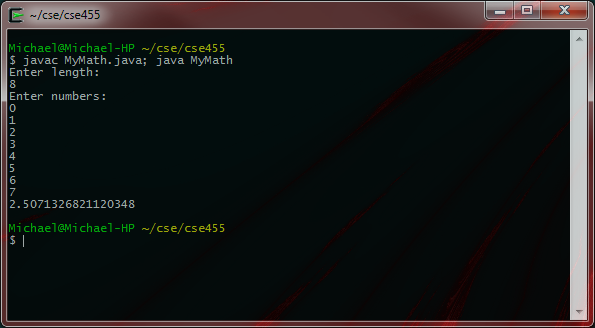
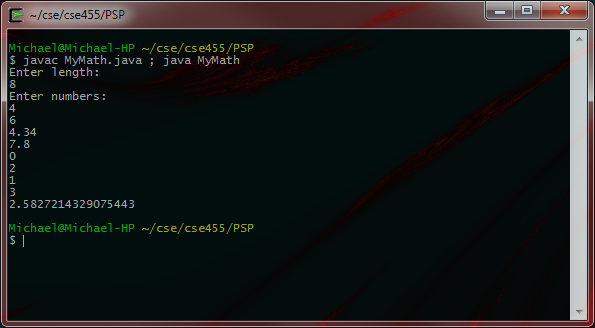
quick fix

diff --git a/MyMath.java b/MyMath.java
@@ -3,7 +3,7 @@ import java.util.Scanner;
 class MyMath {
 	
 	public static double mean(double[] numbers) {
-		int sum = 0;
+		double sum = 0;
 		for (double number : numbers) {
 			sum += number;
 		}
